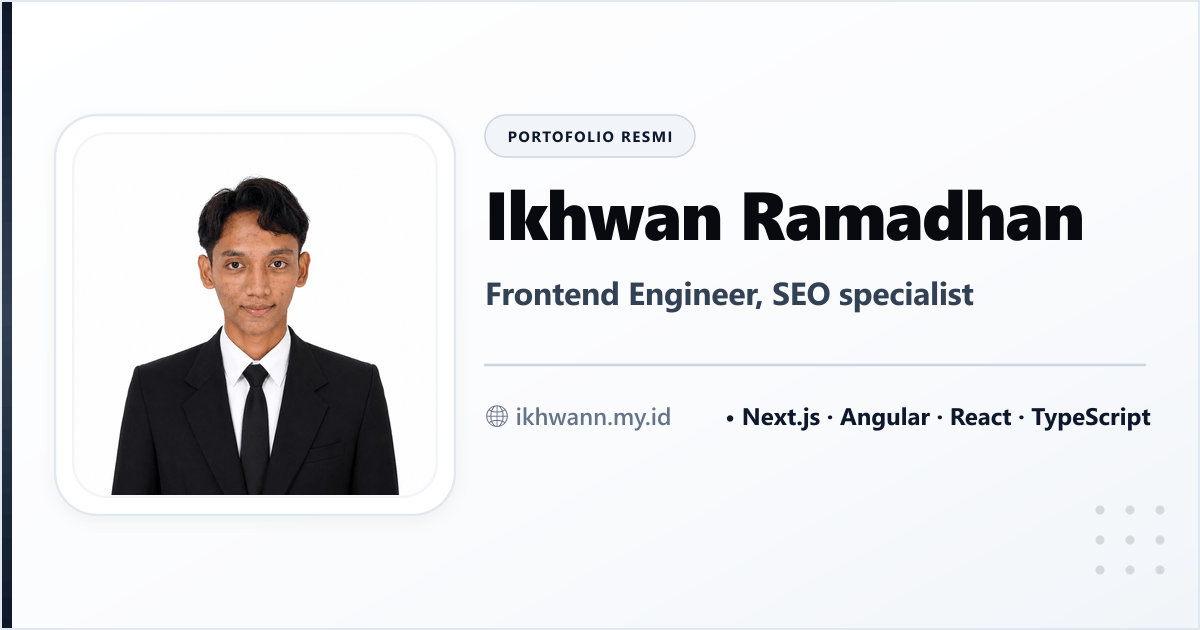
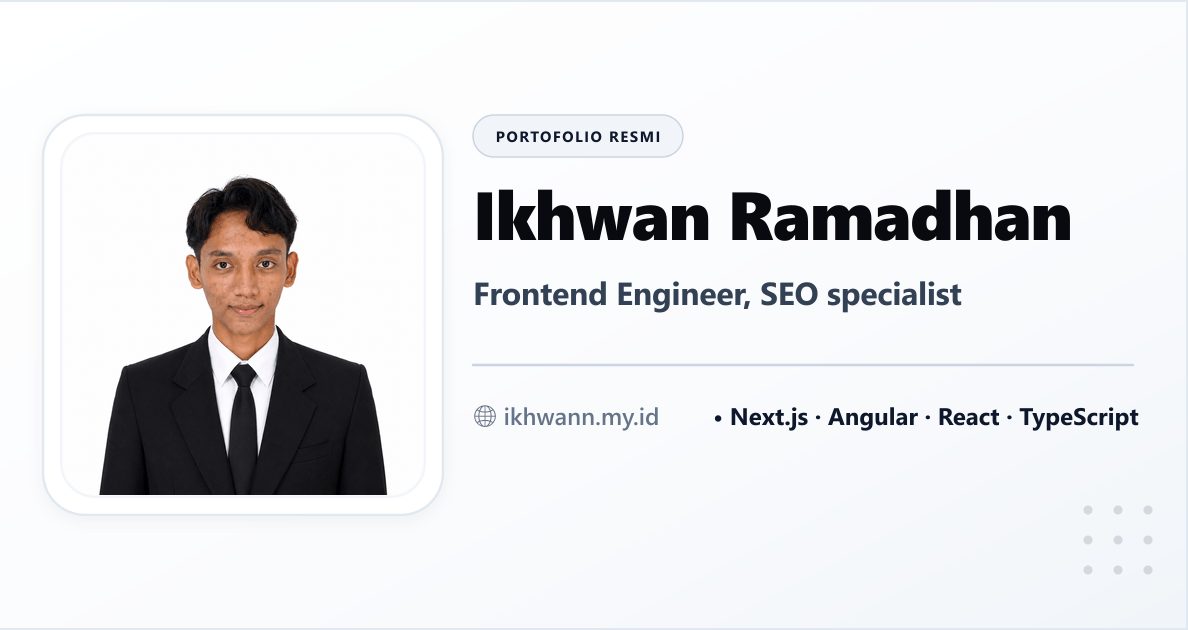
adjust og image

diff --git a/contoh-opengraph-image.tsx b/contoh-opengraph-image.tsx
@@ -1,11 +1,11 @@
 import { ImageResponse } from '@vercel/og';
 
-// Konfigurasi ukuran standar OpenGraph (1200x630 px)
+export const runtime = 'edge';
+export const alt = 'Ikhwan Ramadhan - Frontend Engineer, SEO specialist';
 export const size = {
     width: 1200,
     height: 630,
 };
-
 export const contentType = 'image/png';
 
 export default async function OpenGraphImage() {
@@ -20,36 +20,38 @@ export default async function OpenGraphImage() {
                     alignItems: 'center',
                     justifyContent: 'space-between',
                     backgroundColor: '#ffffff',
-                    padding: '40px 55px',
+                    backgroundImage:
+                        'radial-gradient(circle at 20% 25%, #ffffff 0%, #f8fafc 60%, #f1f5f9 100%)',
+                    padding: '60px 80px',
                     fontFamily: 'sans-serif',
                     position: 'relative',
                     border: '1px solid #e2e8f0',
                 }}
             >
-                {/* Aksen Bar Kiri */}
+                {/* Accent Bar Kiri */}
                 <div
                     style={{
                         position: 'absolute',
                         left: 0,
                         top: 0,
-                        width: '12px',
+                        width: '10px',
                         height: '100%',
                         backgroundColor: '#0f172a',
                     }}
                 />
 
-                {/* Kiri: Foto Profil Besar (Aspect Ratio Terkunci, Tidak Gepeng) */}
+                {/* Left: Profile Photo Card (Aspect Ratio Locked, No Distortion) */}
                 <div
                     style={{
                         display: 'flex',
                         alignItems: 'center',
                         justifyContent: 'center',
-                        width: '380px',
-                        height: '380px',
-                        borderRadius: '40px',
-                        backgroundColor: '#f8fafc',
-                        border: '2.5px solid #e2e8f0',
-                        boxShadow: '0 16px 36px rgba(15, 23, 42, 0.09)',
+                        width: '280px',
+                        height: '280px',
+                        borderRadius: '36px',
+                        backgroundColor: '#ffffff',
+                        border: '2px solid #e2e8f0',
+                        boxShadow: '0 20px 40px rgba(15, 23, 42, 0.08)',
                         padding: '16px',
                         flexShrink: 0,
                     }}
@@ -58,33 +60,33 @@ export default async function OpenGraphImage() {
                     <img
                         src="https://ikhwann.my.id/profile.png"
                         alt="Ikhwan Ramadhan"
-                        width="348"
-                        height="348"
+                        width="248"
+                        height="248"
                         style={{
                             width: '100%',
                             height: '100%',
                             objectFit: 'cover',
-                            borderRadius: '30px',
+                            borderRadius: '24px',
                         }}
                     />
                 </div>
 
-                {/* Kanan: Informasi & Metadata Padat & Jelas */}
+                {/* Right: Personal Info & Metadata */}
                 <div
                     style={{
                         display: 'flex',
                         flexDirection: 'column',
                         justifyContent: 'center',
                         flexGrow: 1,
-                        marginLeft: '50px',
+                        marginLeft: '60px',
                     }}
                 >
-                    {/* Badge */}
+                    {/* Category / Badge */}
                     <div
                         style={{
                             display: 'flex',
                             alignItems: 'center',
-                            marginBottom: '18px',
+                            marginBottom: '16px',
                         }}
                     >
                         <span
@@ -92,10 +94,10 @@ export default async function OpenGraphImage() {
                                 backgroundColor: '#f1f5f9',
                                 color: '#0f172a',
                                 border: '1.5px solid #cbd5e1',
-                                padding: '8px 22px',
+                                padding: '6px 20px',
                                 borderRadius: '100px',
                                 fontSize: '15px',
-                                fontWeight: '800',
+                                fontWeight: '700',
                                 letterSpacing: '1.5px',
                                 textTransform: 'uppercase',
                             }}
@@ -104,26 +106,26 @@ export default async function OpenGraphImage() {
                         </span>
                     </div>
 
-                    {/* Nama Lengkap - Tebal & Jelas */}
+                    {/* Full Name */}
                     <h1
                         style={{
-                            fontSize: '66px',
+                            fontSize: '56px',
                             fontWeight: '900',
-                            color: '#090a0f',
-                            lineHeight: '1.1',
-                            margin: '0 0 14px 0',
-                            letterSpacing: '-1.2px',
+                            color: '#0f172a',
+                            lineHeight: '1.15',
+                            margin: '0 0 12px 0',
+                            letterSpacing: '-0.8px',
                         }}
                     >
                         Ikhwan Ramadhan
                     </h1>
 
-                    {/* Role / Spesialisasi */}
+                    {/* Role & Tagline */}
                     <p
                         style={{
-                            fontSize: '30px',
-                            color: '#334155',
-                            fontWeight: '700',
+                            fontSize: '26px',
+                            color: '#475569',
+                            fontWeight: '600',
                             margin: '0 0 24px 0',
                             lineHeight: '1.3',
                         }}
@@ -131,14 +133,14 @@ export default async function OpenGraphImage() {
                         Frontend Engineer, SEO specialist
                     </p>
 
-                    {/* Footer Info / URL & Tech Stack */}
+                    {/* Footer Info / Tech Stack & URL */}
                     <div
                         style={{
                             display: 'flex',
                             alignItems: 'center',
-                            gap: '20px',
-                            borderTop: '2.5px solid #cbd5e1',
-                            paddingTop: '22px',
+                            gap: '16px',
+                            borderTop: '2px solid #e2e8f0',
+                            paddingTop: '20px',
                         }}
                     >
                         <div
@@ -146,7 +148,7 @@ export default async function OpenGraphImage() {
                                 display: 'flex',
                                 alignItems: 'center',
                                 color: '#64748b',
-                                fontSize: '23px',
+                                fontSize: '20px',
                                 fontWeight: '600',
                             }}
                         >
@@ -157,8 +159,8 @@ export default async function OpenGraphImage() {
                                 display: 'flex',
                                 alignItems: 'center',
                                 color: '#0f172a',
-                                fontSize: '23px',
-                                fontWeight: '800',
+                                fontSize: '20px',
+                                fontWeight: '700',
                             }}
                         >
                             • Next.js · Angular · React · TypeScript
